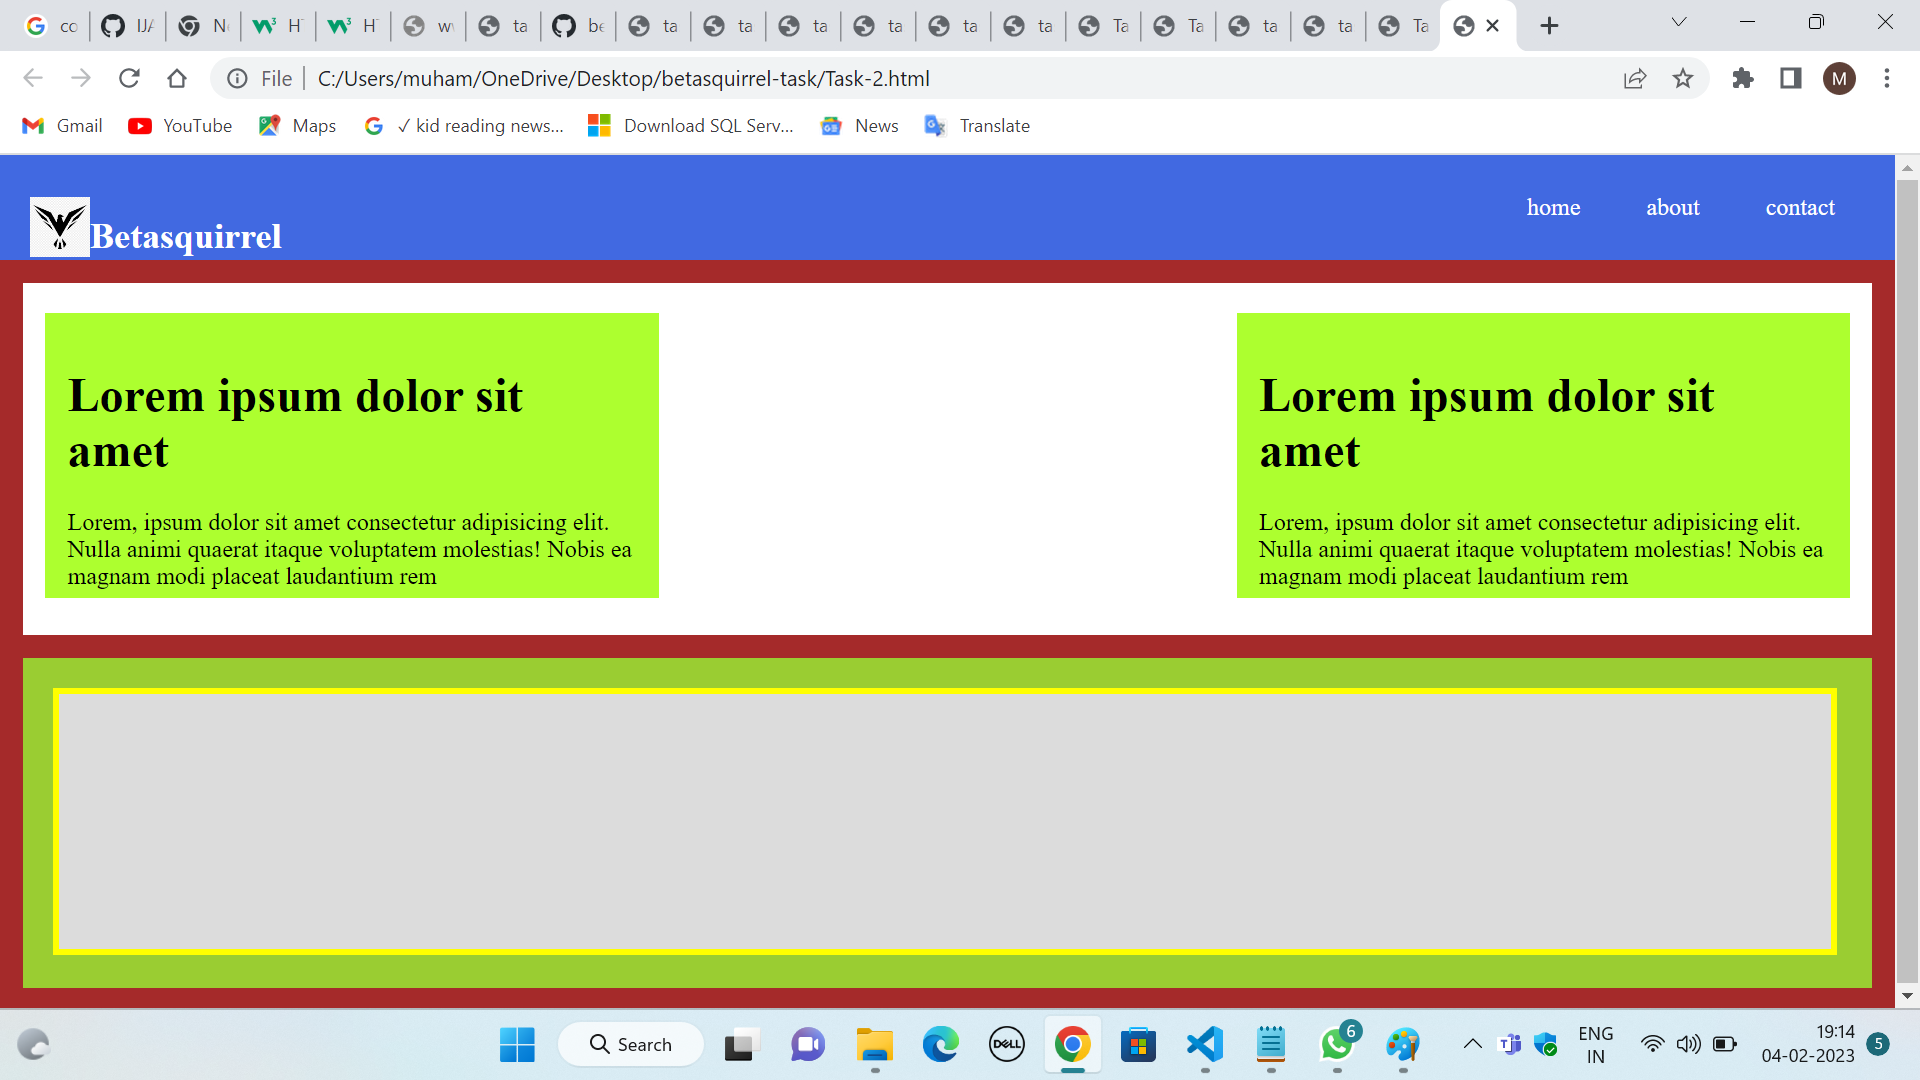
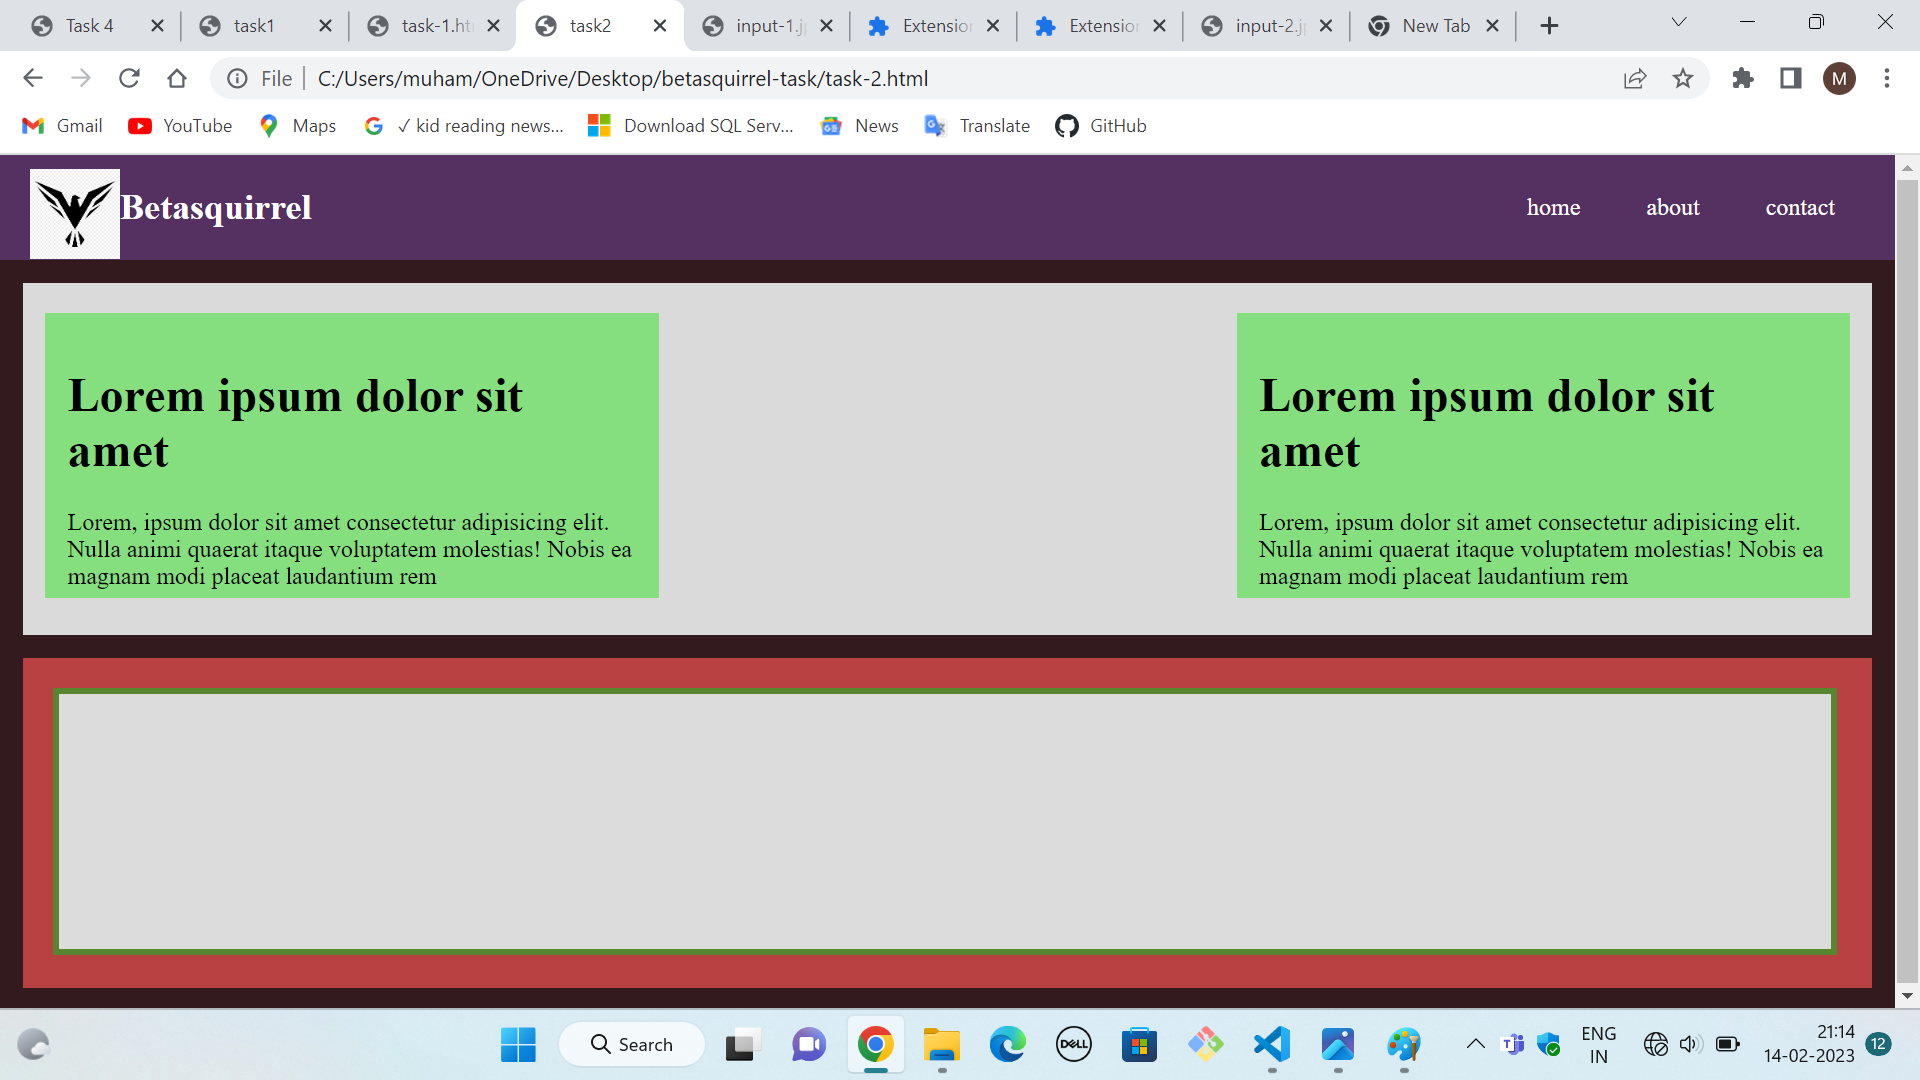
modified

diff --git a/css/task-2.css b/css/task-2.css
@@ -1,21 +1,25 @@
 body {
-  background-color: brown;
+  background-color:#321A1E;
   margin: 0 auto;
 }
 #navbar {
-  background-color: royalblue;
+  background-color: #553161;
   height: 50px;
   border: orange;
   margin-bottom: 15px;
   display: flex;
+  align-items: center;
   justify-content: space-between;
 }
 .left img {
-  height: 40px;
+  height: 60px;
   margin-top: 8px;
+  display: flex;
+  align-items: center;
+  justify-content: center;
 }
 .boxes {
-  background-color: #d1d8d1;
+  background-color:#DADADA;
   height: 160px;
   width: 30%;
   float: left;
@@ -24,7 +28,7 @@ body {
   padding: 15px;
 }
 .box {
-  background-color: #fff;
+  background-color:#DADADA;
   height: 215px;
   width: 96%;
   margin-bottom: 15px;
@@ -32,7 +36,7 @@ body {
   margin-right: 10px;
 }
 .empty {
-  background-color: yellowgreen;
+  background-color:#BA4141;
   height: 200px;
   width: 96%;
   margin-top: 15px;
@@ -41,10 +45,10 @@ body {
   margin-left: 15px;
 }
 .empty1 {
-  background-color: darkkhaki;
+  background-color: #578530;
   height: 150px;
   width: 95.8%;
-  border: 4px solid yellow;
+  border: 4px solid #578530;
   margin-top: 10px;
   margin-right: 10px;
   margin-bottom: 10px;
@@ -82,10 +86,10 @@ div {
   text-decoration: none;
 }
 .first {
-  background-color: greenyellow;
+  background-color: #85DF7F;
   float: left;
 }
 .second {
-  background-color: greenyellow;
+  background-color: #85DF7F;
   float: right;
 }

diff --git a/css/task-1.css b/css/task-1.css
@@ -1,21 +1,20 @@
 body {
-  background-color: black;
+  background-color:#2E2226;
   margin: 0 auto;
 }
 #navbar {
-  background-color: purple;
+  background-color: #543561;
   height: 80px;
-  border: orange;
   margin-bottom: 15px;
 }
 #main-container {
-  background-color: aquamarine;
+  background-color: #D4D8E3;
   height: 200px;
-  border: 1px solid green;
+  border: 1px solid #D4D8E3;
   margin-bottom: 15px;
 }
 .boxes {
-  background-color: green;
+  background-color: #D4D8E3;
   height: 200px;
   width: 32%;
   float: left;
@@ -31,18 +30,27 @@ body {
 }
 .left {
   float: left;
+  display: flex;
+  align-items: center;
+  justify-content: center;
 }
 .right {
   float: right;
+  margin-top: 35px;
+  display: flex;
+  align-items: center;
+  justify-content: center;
 }
 .left img {
   height: 60px;
+  margin-top: 8px;
 }
 .left h2 {
   display: inline;
+  color: #fff;
 }
 .right a {
   color: white;
   text-decoration: none;
-  padding: 20px;
+  padding: 15px; 
 }

diff --git a/css/task-4.css b/css/task-4.css
@@ -72,7 +72,8 @@ body {
 #tile-container,
 #circle-container {
   display: flex;
-  height: 150px;
+  margin-bottom: 20px;
+  /* height: 150px; */
 }
 .tile {
   height: 130px;
@@ -99,14 +100,14 @@ body {
 .chart {
   margin-right: 15px;
 }
-.circle,
+/* .circle,
 .chart {
   width: calc(100% / 4);
   display: flex;
   flex-direction: column;
   justify-content: center;
   align-items: center;
-}
+} */
 .circle {
   width: 250px;
   height: 250px;

diff --git a/task-1.html b/task-1.html
@@ -9,8 +9,8 @@
   </head>
   <body>
     <div id="navbar">
-      <div class="left"><img src="images/logo.png" alt="logo" /></div>
-      <h2>Betasquirrel</h2>
+      <div class="left"><img src="images/logo.png" alt="logo" />
+      <h2>Betasquirrel</h2></div>
       <div class="right">
         <nav>
           <a href="#">HOME</a>
